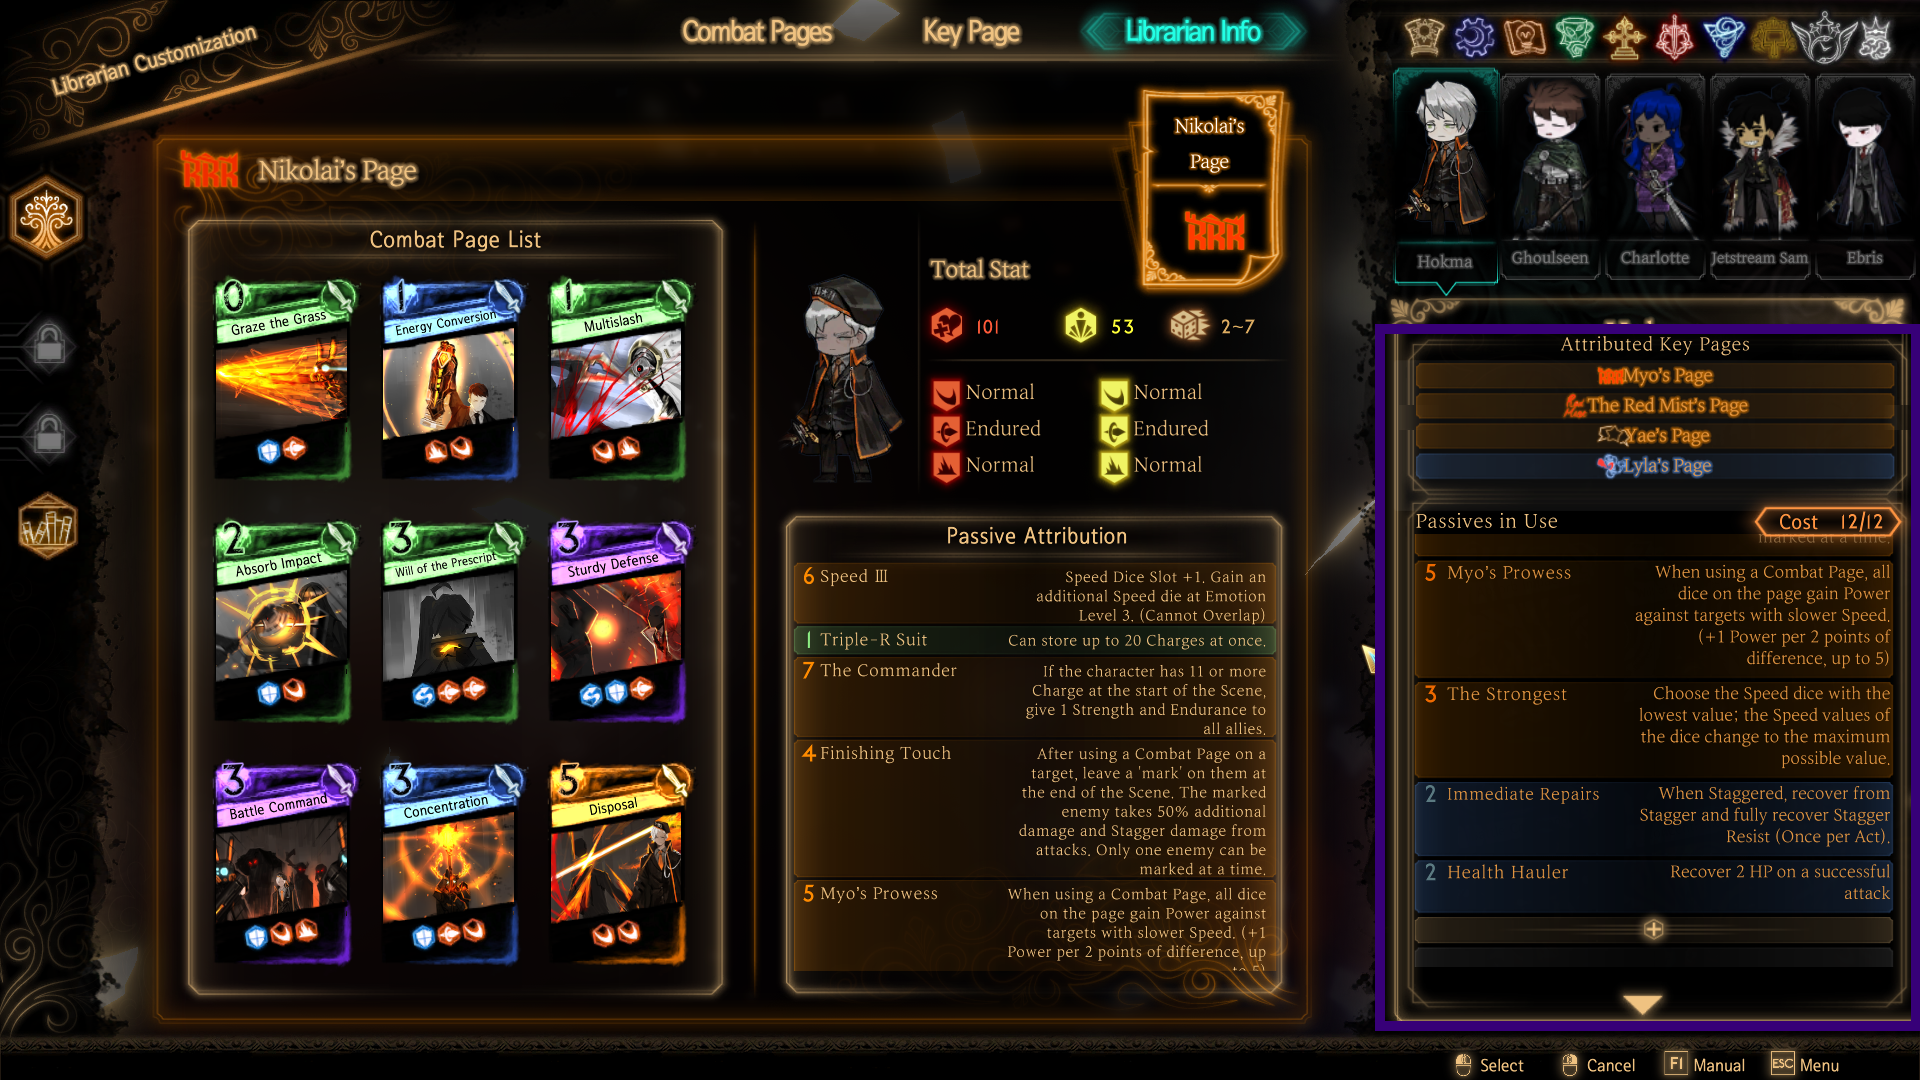
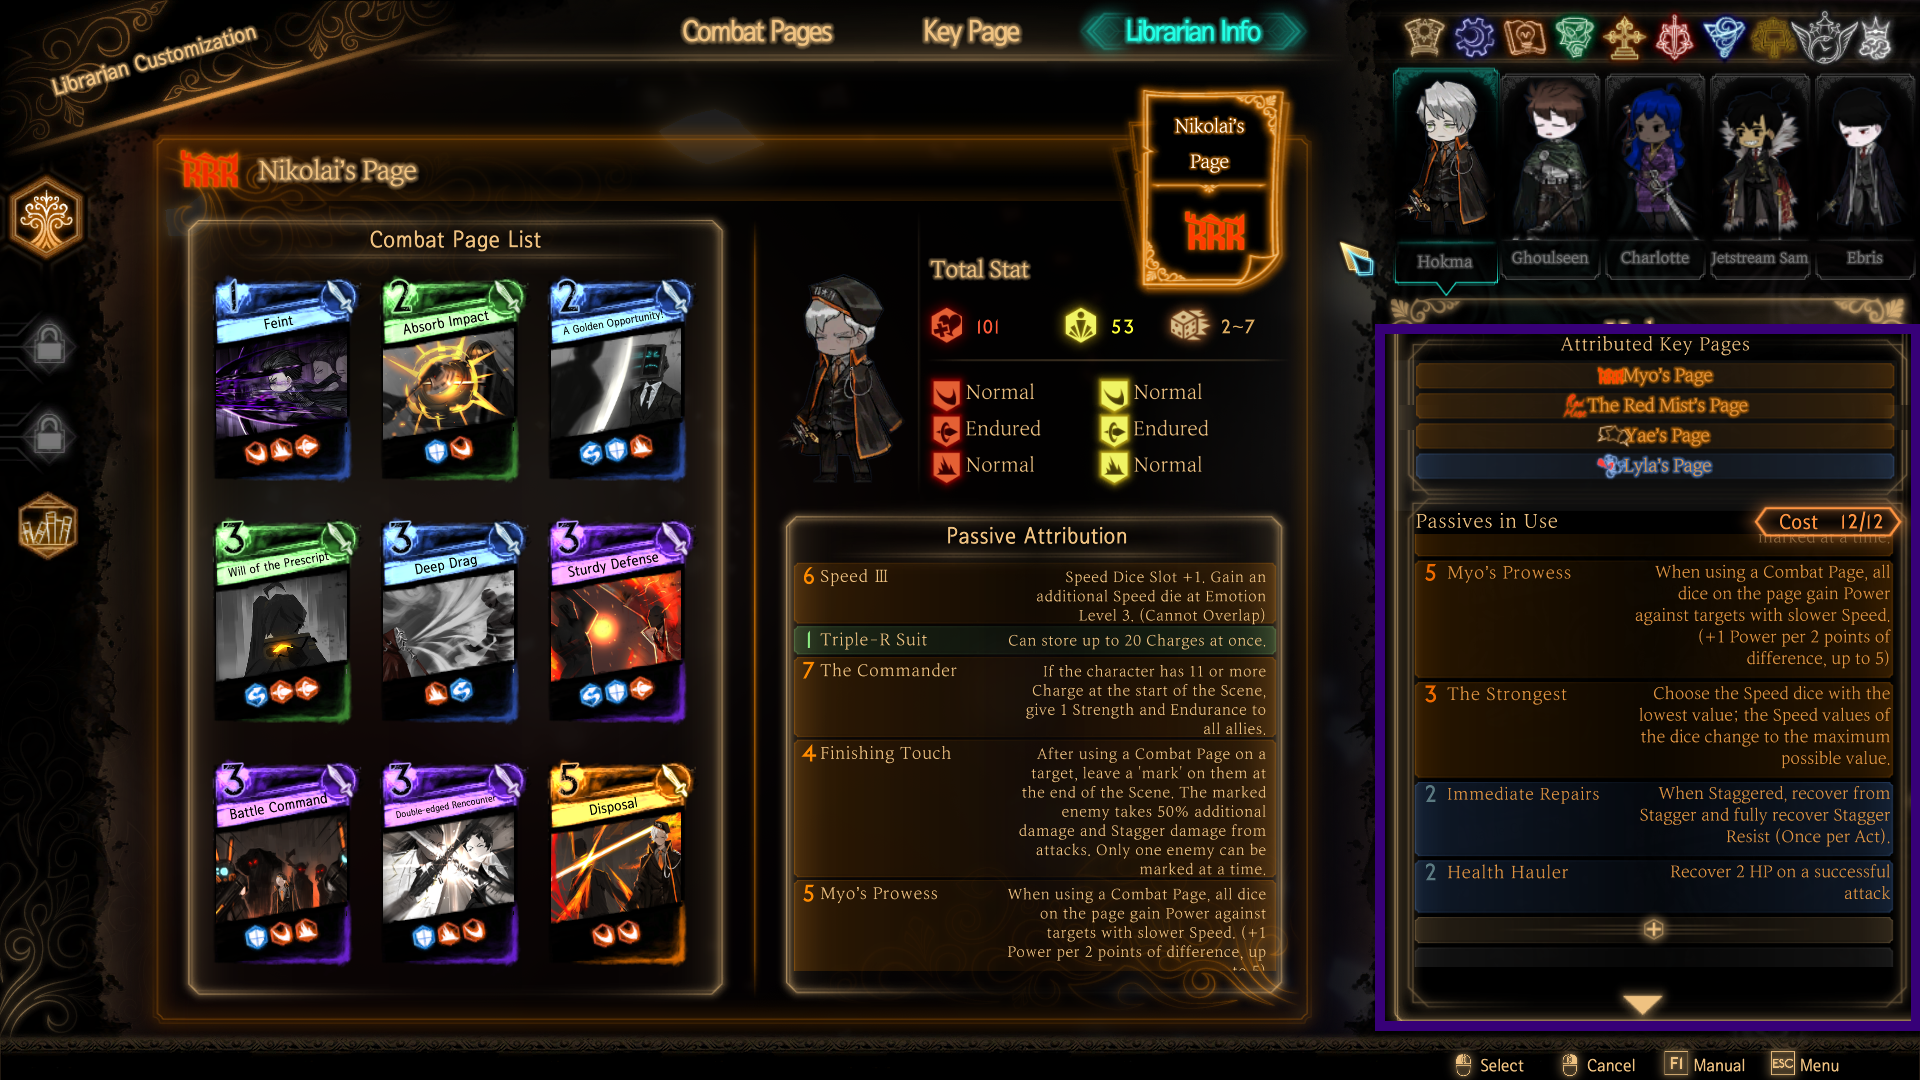
Update Hokma light contract holder

diff --git a/zola/content/articles/ensemble-spoiler-full/index.md b/zola/content/articles/ensemble-spoiler-full/index.md
@@ -2,7 +2,7 @@
 title = "Reverberation Ensemble Guide (and beyond) [SPOILER-FULL]"
 description = "This guide is for people who want to smash endgame Library of Ruina as hard as possible."
 date = 2024-08-17
-updated = 2024-08-25
+updated = 2024-09-01
 draft = false
 
 [taxonomies]
@@ -456,7 +456,7 @@ To **tech** is to prepare a special tool or strategy in order to counter an oppo
 
 * Amplification: include a large variety of page costs in your deck. The \+3 dice power means that even with 0-cost pages, you'll be winning most if not all clashes with the selected cost. The \-3 dice power means that even with 3-cost pages, you'll probably be losing said clashes. Try to obtain and maintain a large hand size so that you have a plethora of options to choose from every turn.
 * Liberty: Include almost exclusively 3-cost cards in your deck. Try to obtain and maintain a large hand size so that the likelihood of playing discounted cards is high. Will of the City is a great inclusion because it's a light restore that can get discounted even further, resulting in a 1- or even a 0-cost that restores 3 light (net light restore: 2 or 3). Alternatively, Rapid Gashes ignores the Liberty effect entirely.
-* Light: Go heavy on card draw, and remove all light restores from your deck. Baptism can help bring your light usage to zero, if you manage to grab that abno page. Avoid Advent like the plague (pun intended). Running pages with counter dice guarantees that the light gets spent: otherwise, if the target dies before the page without a counter gets used, you won't spend light. Especially in early emo levels, you will eventually run into situations where you are forced to have some leftover light; HP healing passives \+ Reindeer Treatment can take advantage of this.
+* Light: Go heavy on card draw, and remove all light restores from your deck. Baptism can help bring your light usage to zero, if you manage to grab that abno page. Avoid Advent like the plague (pun intended). Running pages with counter dice guarantees that the light gets spent: otherwise, if the target dies before the page without a counter gets used, you won't spend light. Especially in early emo levels, you will eventually run into situations where you are forced to have some leftover light; HP healing passives \+ Reindeer Treatment can take advantage of this. **Do not let Pluto trap the Light contract holder** as Pluto will prevent light expenditure, **instantly killing** your librarian.
 * Might: This is the one deck where you have to rebuild from the ground up. You'll want to follow 5-4-3 to the best of your ability, but only with mono-offensive pages. Note that the requirements are relaxed compared to Singular Strike, as you are free to include pages that have one offensive die but one or more defensive dice. For example, Deep Drag, Sturdy Defense, and Duel are all valid picks.
 * Swiftness: You don't need to make any modifications
 
@@ -470,7 +470,7 @@ To **tech** is to prepare a special tool or strategy in order to counter an oppo
 
 #### Demo
 
-{{ youtube(id="-d_HFLVOjoA") }}
+{{ youtube(id="9AVj8cM7Anw") }}
 
 ### Strategy 2: Sacrifice a dedicated contract holder
 

diff --git a/zola/content/articles/ensemble-spoiler-free/index.md b/zola/content/articles/ensemble-spoiler-free/index.md
@@ -2,7 +2,7 @@
 title = "Reverberation Ensemble Guide (and beyond) [SPOILER-FREE]"
 description = "This guide is for people who don’t want to build 45 decks for the Reverberation Ensemble, but still want to figure out the gameplay themselves."
 date = 2024-08-17
-updated = 2024-08-19
+updated = 2024-09-01
 draft = false
 
 [taxonomies]
@@ -185,7 +185,7 @@ Note: this guide assumes you completed every reception and have multiple copies 
 # Hokma
 
 * Nikolai
-  * Graze the Grass, Energy Conversion, Multislash, Absorb Impact, Will of the Prescript, Sturdy Defense, Battle Command, Concentration, Disposal
+  * Feint, Absorb Impact, A Golden Opportunity!, Will of the Prescript, Deep Drag, Sturdy Defense, Battle Command, Concentration, Disposal
   * Myo’s Prowess, The Strongest, Immediate Repairs, Health Hauler
 * Bayard
   * Frontal Assault, Wedging Thorn, Forward March, Multislash, Feint, Shoving Stab, Steel Knuckles, Will of the Prescript, Double-edged Rencounter
